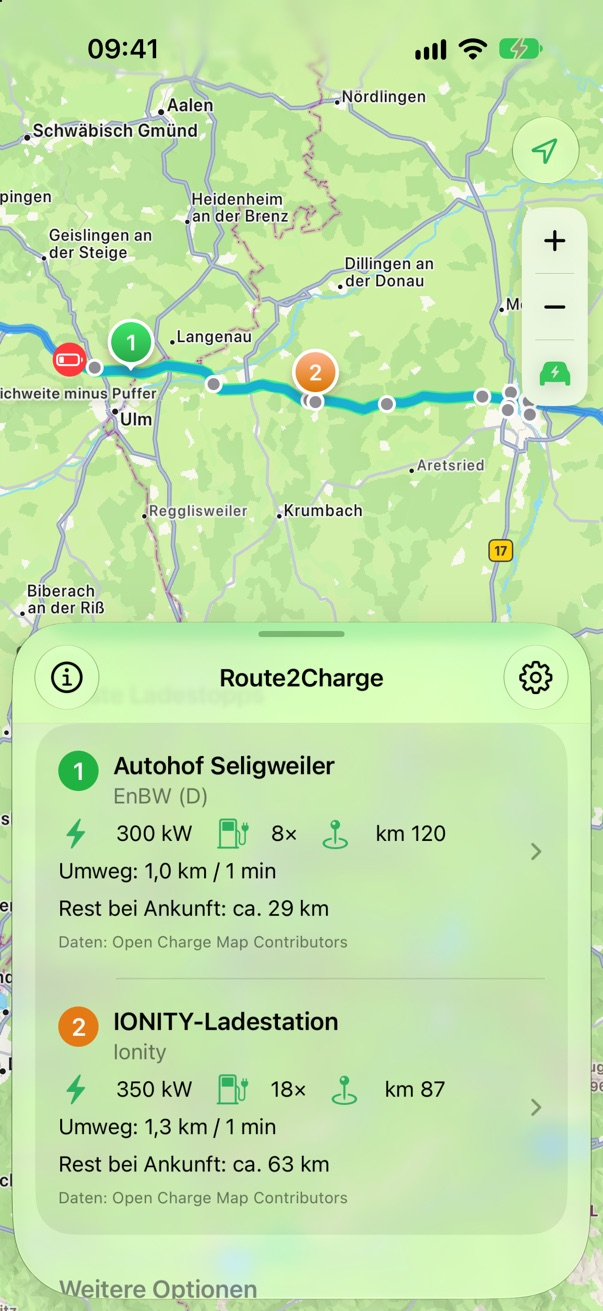
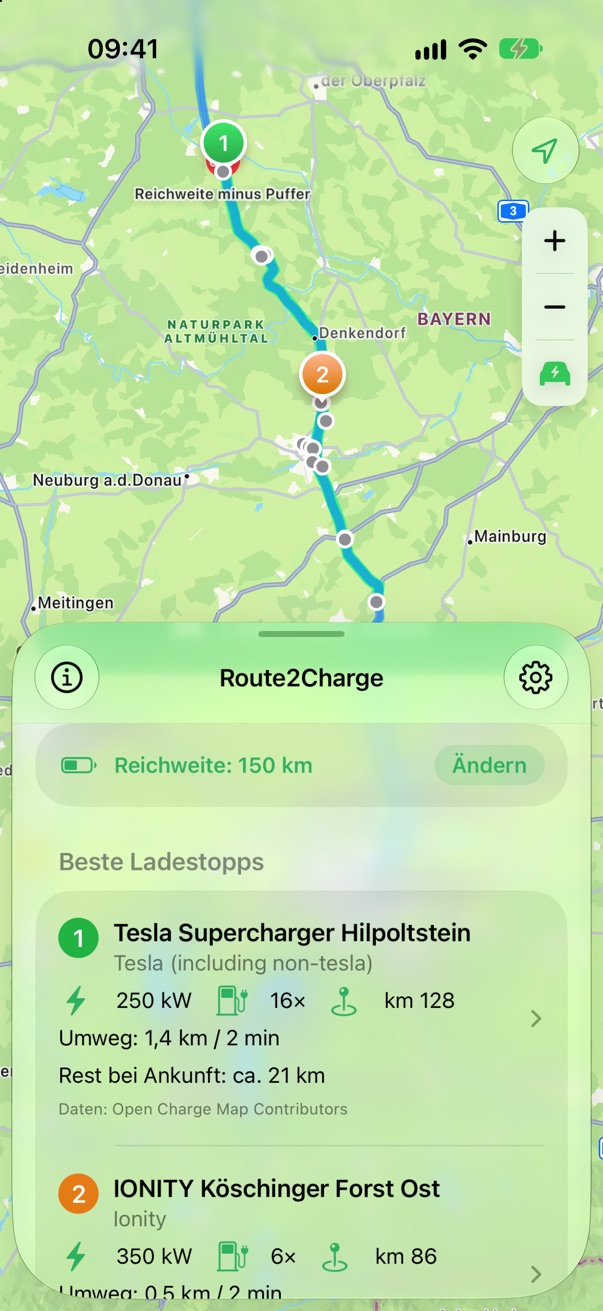
Website: Beispiel-Route München → Bitterfeld (DE/EN)
Alle App-Bilder neu mit München → Bitterfeld, Bildbeschreibungen angepasst.

Claude-Session: https://claude.ai/code/session_01FbbqVDJEnc7oZAJejWfKfJ

diff --git a/de/index.html b/de/index.html
@@ -58,7 +58,7 @@
 <li><svg viewBox="0 0 24 24" aria-hidden="true"><rect x="6.5" y="2.5" width="11" height="19" rx="3" fill="none" stroke="currentColor" stroke-width="2"/><path stroke="currentColor" stroke-width="2" stroke-linecap="round" d="M10.5 18.5h3"/></svg>Für iPhone</li>
       </ul>
     </div>
-    <div class="phone"><img src="../assets/screens/route.jpg" alt="Route2Charge auf dem iPhone: Route von Karlsfeld nach Stuttgart mit grün markiertem Ladefenster und zwei empfohlenen Ladesäulen." width="1206" height="2622"></div>
+    <div class="phone"><img src="../assets/screens/route.jpg" alt="Route2Charge auf dem iPhone: Route von München nach Bitterfeld mit grün markiertem Ladefenster und zwei empfohlenen Ladesäulen." width="1206" height="2622"></div>
   </div>
 </section>
 
@@ -174,7 +174,7 @@
 <li><svg viewBox="0 0 24 24" aria-hidden="true"><path fill="none" stroke="currentColor" stroke-width="2" stroke-linecap="round" stroke-linejoin="round" d="M4 12h13m-5-6 6 6-6 6"/><path fill="currentColor" d="M20 5h2v14h-2z"/></svg><div><strong>Nach dem Laden</strong><span>Weiter zum Ziel oder ab der Säule den nächsten Stopp suchen – mit neuer Reichweite in km oder %.</span></div></li>
         </ul>
       </div>
-      <div class="opt-phone"><div class="phone"><img src="../assets/screens/input.jpg" alt="Route2Charge auf dem iPhone: Route von Karlsfeld nach Stuttgart, Reichweiten-Modi Reichweite, Akku % und Bei km, Restreichweite 150 km und 20 km Sicherheitspuffer." width="1206" height="2622" loading="lazy"></div></div>
+      <div class="opt-phone"><div class="phone"><img src="../assets/screens/input.jpg" alt="Route2Charge auf dem iPhone: Route von München nach Bitterfeld, Reichweiten-Modi Reichweite, Akku % und Bei km, Restreichweite 150 km und 20 km Sicherheitspuffer." width="1206" height="2622" loading="lazy"></div></div>
     </div>
     <div class="opt-row opt-row-rev">
       <div class="opt-text">

diff --git a/index.html b/index.html
@@ -58,7 +58,7 @@
 <li><svg viewBox="0 0 24 24" aria-hidden="true"><rect x="6.5" y="2.5" width="11" height="19" rx="3" fill="none" stroke="currentColor" stroke-width="2"/><path stroke="currentColor" stroke-width="2" stroke-linecap="round" d="M10.5 18.5h3"/></svg>Built for iPhone</li>
       </ul>
     </div>
-    <div class="phone"><img src="assets/screens/route-en.jpg" alt="Route2Charge on iPhone: a route from Karlsfeld to Stuttgart with the charging window highlighted in green and two recommended chargers." width="1206" height="2622"></div>
+    <div class="phone"><img src="assets/screens/route-en.jpg" alt="Route2Charge on iPhone: a route from Munich to Bitterfeld with the charging window highlighted in green and two recommended chargers." width="1206" height="2622"></div>
   </div>
 </section>
 
@@ -174,7 +174,7 @@
 <li><svg viewBox="0 0 24 24" aria-hidden="true"><path fill="none" stroke="currentColor" stroke-width="2" stroke-linecap="round" stroke-linejoin="round" d="M4 12h13m-5-6 6 6-6 6"/><path fill="currentColor" d="M20 5h2v14h-2z"/></svg><div><strong>After charging</strong><span>Continue to your destination or search for the next stop from the charger – with your new range in km or %.</span></div></li>
         </ul>
       </div>
-      <div class="opt-phone"><div class="phone"><img src="assets/screens/input-en.jpg" alt="Route2Charge on iPhone: route from Karlsfeld to Stuttgart, range options Range, Battery % and At km, remaining range 150 km and a 20 km safety buffer." width="1206" height="2622" loading="lazy"></div></div>
+      <div class="opt-phone"><div class="phone"><img src="assets/screens/input-en.jpg" alt="Route2Charge on iPhone: route from Munich to Bitterfeld, range options Range, Battery % and At km, remaining range 150 km and a 20 km safety buffer." width="1206" height="2622" loading="lazy"></div></div>
     </div>
     <div class="opt-row opt-row-rev">
       <div class="opt-text">

diff --git a/tools/build.py b/tools/build.py
@@ -158,7 +158,7 @@ TEXT = {
         "soon": "Coming soon to the App Store",
         "facts": ["Germany &amp; Europe", "CCS fast chargers", "Built for iPhone"],
         "hero_img": "route-en.jpg",
-        "hero_alt": "Route2Charge on iPhone: a route from Karlsfeld to Stuttgart with the charging window highlighted in green and two recommended chargers.",
+        "hero_alt": "Route2Charge on iPhone: a route from Munich to Bitterfeld with the charging window highlighted in green and two recommended chargers.",
         "how_kicker": "How it works",
         "how_h2": "Three steps. Two stops. Zero stress.",
         "how_p": "No planning marathon – just the answer you need when the range gets tight.",
@@ -215,7 +215,7 @@ TEXT = {
         ],
         "set_note": "All settings are stored on your iPhone only.",
         "opt_shots": [
-            ("input-en.jpg", "Route2Charge on iPhone: route from Karlsfeld to Stuttgart, range options Range, Battery % and At km, remaining range 150 km and a 20 km safety buffer."),
+            ("input-en.jpg", "Route2Charge on iPhone: route from Munich to Bitterfeld, range options Range, Battery % and At km, remaining range 150 km and a 20 km safety buffer."),
             ("settings-en.jpg", "Route2Charge settings: minimum power, CCS only, hide Tesla Superchargers, maximum distance from the route, battery size and consumption."),
         ],
         "priv_kicker": "Privacy",
@@ -278,7 +278,7 @@ TEXT = {
         "soon": "Bald im App Store",
         "facts": ["Deutschland &amp; Europa", "CCS-Schnelllader", "Für iPhone"],
         "hero_img": "route.jpg",
-        "hero_alt": "Route2Charge auf dem iPhone: Route von Karlsfeld nach Stuttgart mit grün markiertem Ladefenster und zwei empfohlenen Ladesäulen.",
+        "hero_alt": "Route2Charge auf dem iPhone: Route von München nach Bitterfeld mit grün markiertem Ladefenster und zwei empfohlenen Ladesäulen.",
         "how_kicker": "So funktioniert’s",
         "how_h2": "Drei Schritte. Zwei Stopps. Null Stress.",
         "how_p": "Kein Planungsmarathon – nur die Antwort, die du brauchst, wenn die Reichweite knapp wird.",
@@ -335,7 +335,7 @@ TEXT = {
         ],
         "set_note": "Alle Einstellungen bleiben nur auf deinem iPhone.",
         "opt_shots": [
-            ("input.jpg", "Route2Charge auf dem iPhone: Route von Karlsfeld nach Stuttgart, Reichweiten-Modi Reichweite, Akku % und Bei km, Restreichweite 150 km und 20 km Sicherheitspuffer."),
+            ("input.jpg", "Route2Charge auf dem iPhone: Route von München nach Bitterfeld, Reichweiten-Modi Reichweite, Akku % und Bei km, Restreichweite 150 km und 20 km Sicherheitspuffer."),
             ("settings.jpg", "Einstellungen von Route2Charge: Mindestleistung, nur CCS-Stecker, Tesla Supercharger ausblenden, maximaler Abstand zur Route, Akkugröße und Verbrauch."),
         ],
         "priv_kicker": "Datenschutz",
